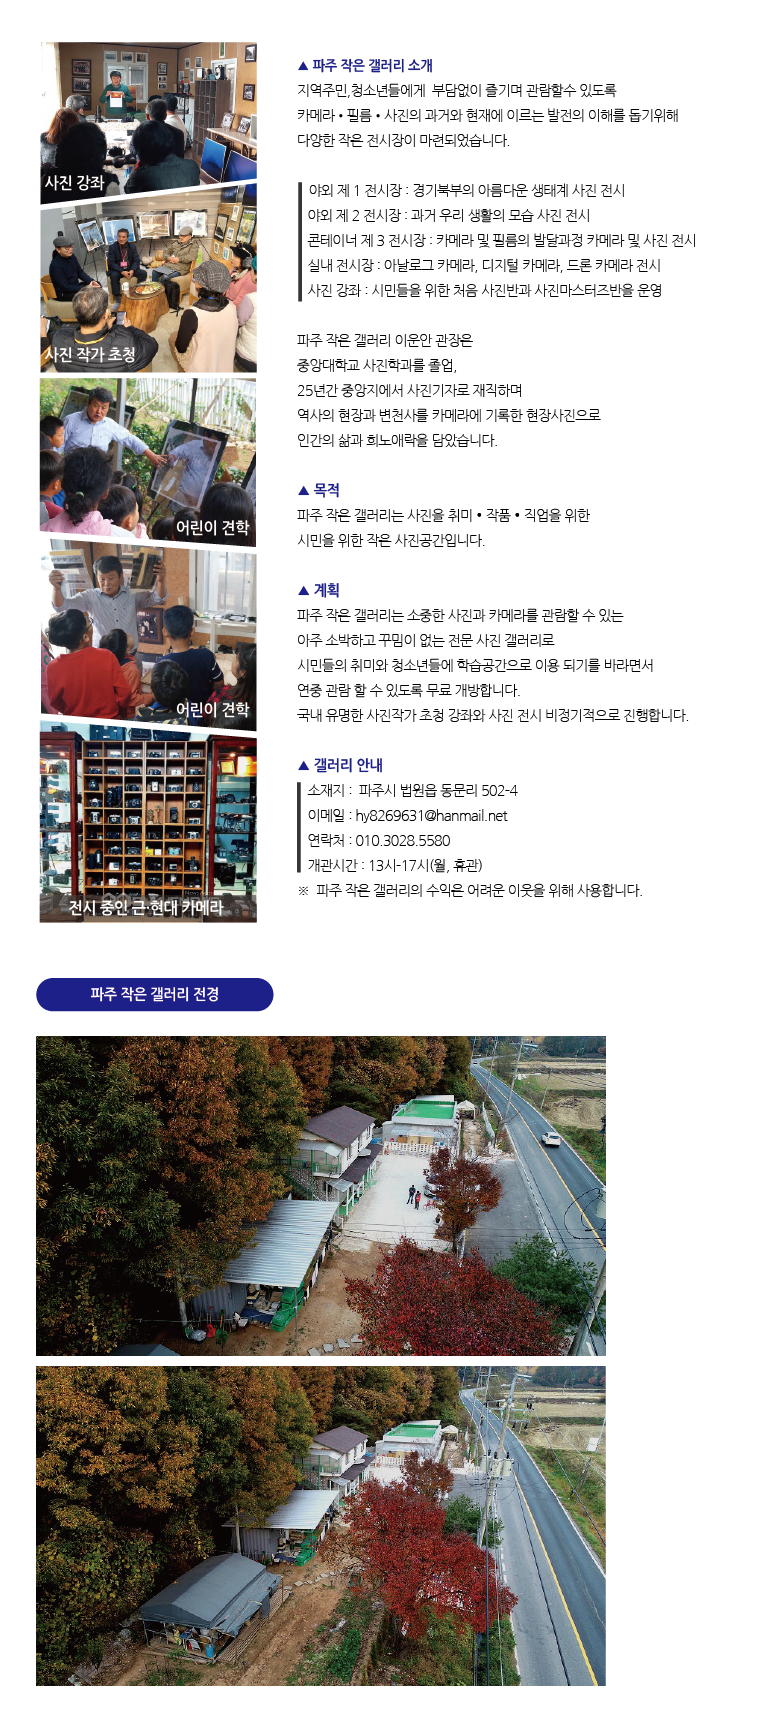
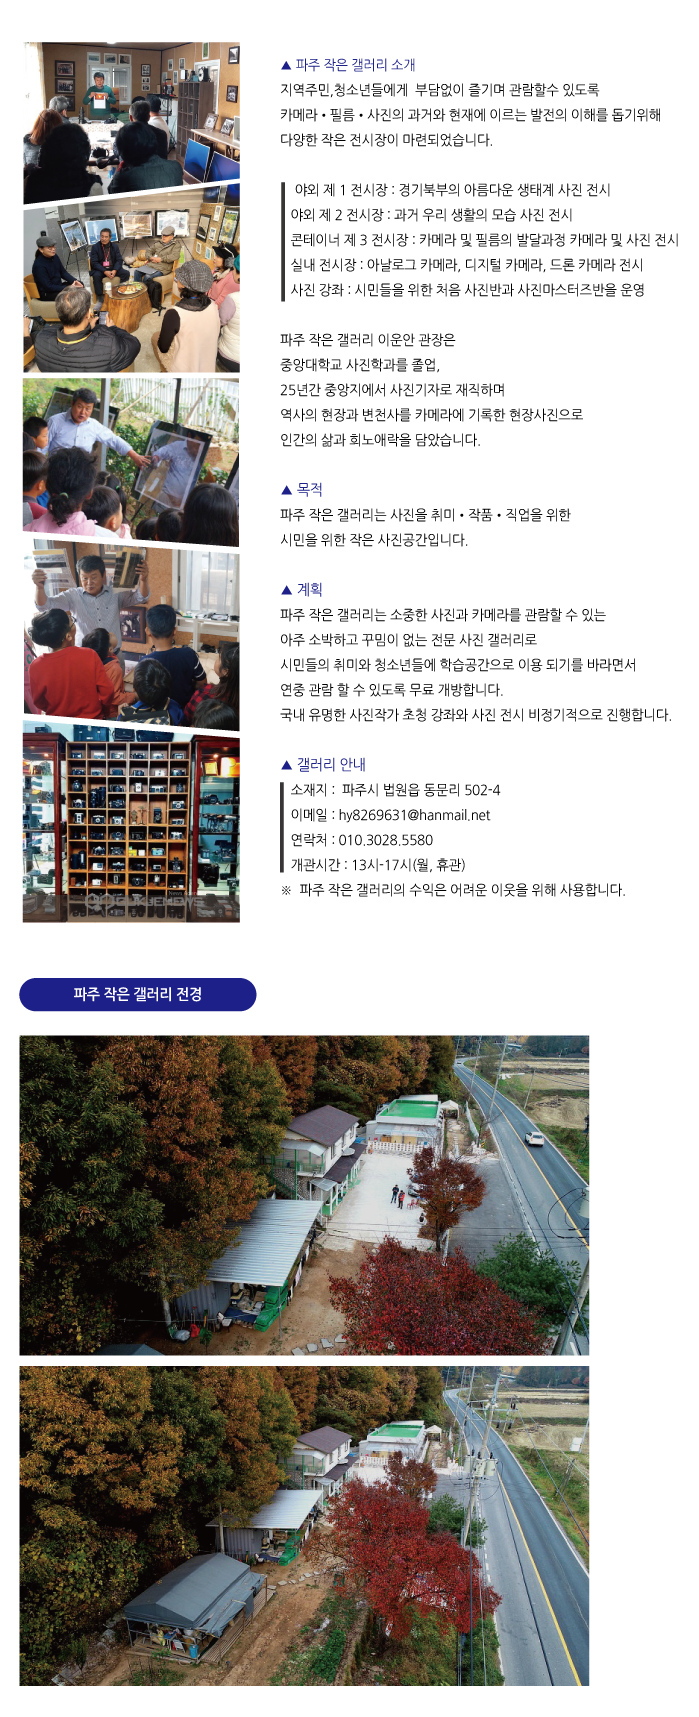
파주 갤러리 소개 수정 -skin > intro_p > php 파일 수정 -관련 img 추가

diff --git a/skin/board/intro_p/list.skin.php b/skin/board/intro_p/list.skin.php
@@ -6,10 +6,102 @@ if (!defined('_GNUBOARD_')) exit; // 개별 페이지 접근 불가
 ?>
 
 <style>
-    .intro_p {height:1800px;margin:50px auto;}
+    .intro_p {height:1300px;margin:50px auto;font-family:'Nanum Gothic Coding', monospace;font-size:14px;letter-spacing:-1px;word-spacing:-2px;line-height:1.8;}
+    .intro_p>img{float:left;margin:20px 50px 0 0;width:200px;}
+    .preh{font-weight:bold;color:#172987;font-size:16px;word-spacing:-5px;margin-top:30px;}
+    .ptext{float:left;position:relative;}
+    .prespan{position:absolute;top:150px;left:10px;}
+    .sborder1{width:3px;height:88px;background:#172987;position:absolute;top:655px;left:0;}
+    .preh2{margin-top:170px;}
+    .prespan2{position:absolute;top:650px;left:10px;}
+    .sborder2{width:3px;height:115px;background:#172987;position:absolute;top:155px;left:0;}
+
+    .intro_i{width:300px;height:800px;border:1px solid #ddd;color:#000;float:right;margin-right:30px;border-radius:10px;}
+    .intro_i>img{width:260px;margin:20px 20px;border-radius:10px;}
+    .i_h{font-weight:bolder;margin-top:10px;}
+    .intro_iw{margin-left:20px;}
+
+    .i_map{width:1100px;height:400px;float:left;margin-top:100px;}
+    .i_map>img{width:500px;float:left;margin-right:10px;border-radius:10px;}
+    .i_map>p{width:400px;background:#172987;color:#fff;font-weight:bold;padding:5px 0;text-align:center;border-radius:20px;margin-bottom:20px;}
+
 </style>
 
 <div class="intro_p">
-    <img src="<?php echo G5_IMG_URL ?>/intro.png" alt="수강 교육 사진">
+    <img src="<?php echo G5_IMG_URL ?>/intro2.png" alt="수강 교육 사진">
+    <div class="ptext">
+                <div class="sborder1"></div>
+                <div class="sborder2"></div>
+
+                <p class="preh">▲ 파주 작은 갤러리 소개</p>
+                지역주민,청소년들에게  부담없이 즐기며 관람할수 있도록<br>
+                카메라•필름•사진의 과거와 현재에 이르는 발전의 이해를 돕기위해<br>
+                다양한 작은 전시장이 마련되었습니다.<br>
+
+                <p class="prespan">
+                    야외 제 1 전시장 : 경기북부의 아름다운 생태계 사진 전시<br>
+                    야외 제 2 전시장 : 과거 우리 생활의 모습 사진 전시<br>
+                    콘테이너 제 3 전시장 : 카메라 및 필름의 발달과정 전시<br>
+                    실내 전시장 : 아날로그 카메라, 디지털 카메라, 드론 카메라 전시<br>
+                    사진 강좌 : 시민들을 위한 처음 사진반과 사진마스터즈반을 운영<br>
+                </p>
+
+                <p class="preh preh2">▲ 목적</p>
+                파주 작은 갤러리는 사진을 취미•작품•직업을 위한<br>
+                시민을 위한 작은 사진공간입니다. <br>
+                    
+                <p class="preh">▲ 계획</p>
+                파주 작은 갤러리는 소중한 사진과 카메라를 관람할 수 있는 <br>
+                아주 소박하고 꾸밈이 없는 전문 사진 갤러리로 <br>
+                시민들의 취미와 청소년들에 학습공간으로 이용 되기를 바라면서 <br>
+                연중 관람 할 수 있도록 무료 개방합니다.<br>
+                국내 유명한 사진작가 초청 강좌와 사진 전시 비정기적으로 진행합니다.<br>
+
+                <p class="preh">▲ 갤러리 안내</p>
+                    <p class="prespan2">
+                        소재지 :  파주시 법원읍 동문리 502-4 <br> 
+                        이메일 : hy8269631@hanmail.net<br>
+                        연락처 : 010.3028.5580<br>
+                        개관시간 : 13시-17시(월, 휴관)<br></p>
+                    </p>
+                ※  파주 작은 갤러리의 수익은 어려운 이웃을 위해 사용합니다.
+                </p>
+</div>
+<div class="intro_i">
+    <img src="<?php echo G5_IMG_URL ?>/intro3.jpg" alt="이운안">
+    <div class="intro_iw">
+        <p class="i_h">파주 작은 갤러리 이운안 관장은</p>
+
+        <p class="i_t">
+            중앙대학교 사진학과를 졸업,<br>
+            25년간 중앙지에서 사진기자로 재직하며<br>
+            역사의 현장과 변천사를 기록한 사진으로<br>
+            인간의 삶과 희노애락을 담았습니다.<br>
+        </p>
+
+        <p class="i_h">(前)</p>
+        <p class="i_t">
+            - 서울신문사 기자<br>
+            - 국민일보 기자, 편집위원<br>
+            - 의정부 검찰청 범죄예방위원회 부회장<br>
+            - 의정부시 체육회 이사<br>
+            - 한국보도사진가 협회 회장<br>
+        </p>
+
+        <p class="i_h">(現)</p>
+        <p class="i_t">
+            - 관훈클럽 정회원<br>
+            - 의정부교도소 취업지원 협의회 회장<br>
+            - 의정부교구 교정사목위원회 사도회 회장<br>
+            - 한국 보도 사진가 협회 고문<br>
+            - 국제뉴스 통신사 취재 국장<br>
+            - 파주 작은 갤러리 관장<br>
+        </p>
+    </div>
 </div>
 
+<div class="i_map">
+        <p>파주 작은 갤러리 전경</p>
+        <img src="<?php echo G5_IMG_URL ?>/intro4.jpg" alt="파주작은갤러리">
+        <img src="<?php echo G5_IMG_URL ?>/intro5.jpg" alt="파주작은갤러리">
+</div>

diff --git a/tail.php b/tail.php
@@ -43,7 +43,7 @@ if (G5_IS_MOBILE) {
             <a href="<?php echo G5_BBS_URL; ?>/content.php?co_id=provision">서비스이용약관</a>
             <a href="<?php echo get_device_change_url('https://pajugallery.kr/index.php?device=mobile'); ?>">모바일버전</a>
         </div>
-        <div id="ft_catch"><img src="<?php echo G5_IMG_URL; ?>/logo.png" alt="<?php echo G5_VERSION ?>"></div>
+        <div id="ft_catch"><img src="<?php echo G5_IMG_URL; ?>/logo.png2" alt="<?php echo G5_VERSION ?>"></div>
         <div id="ft_copy">Copyright &copy; <b>파주 작은 Gallery.</b> All rights reserved.</div>
     </div>
     
